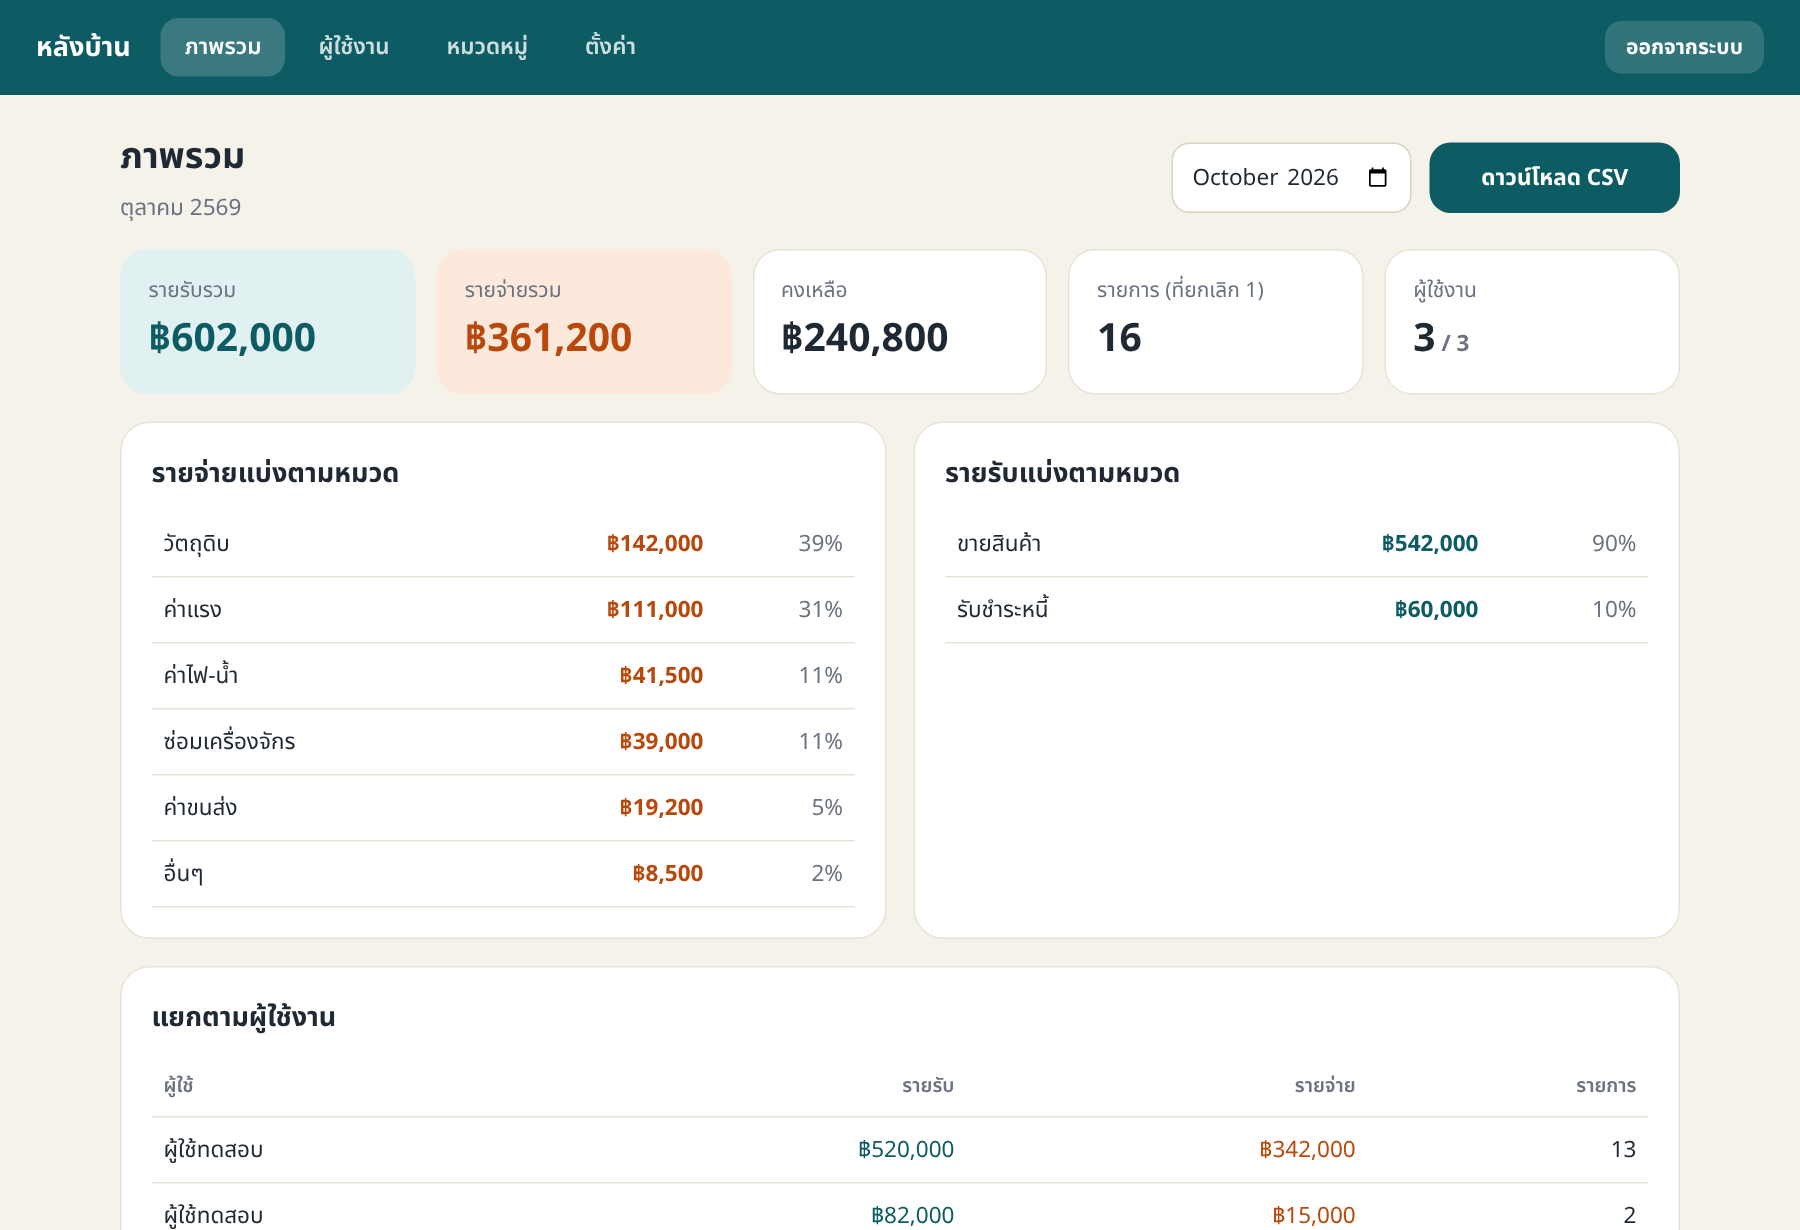
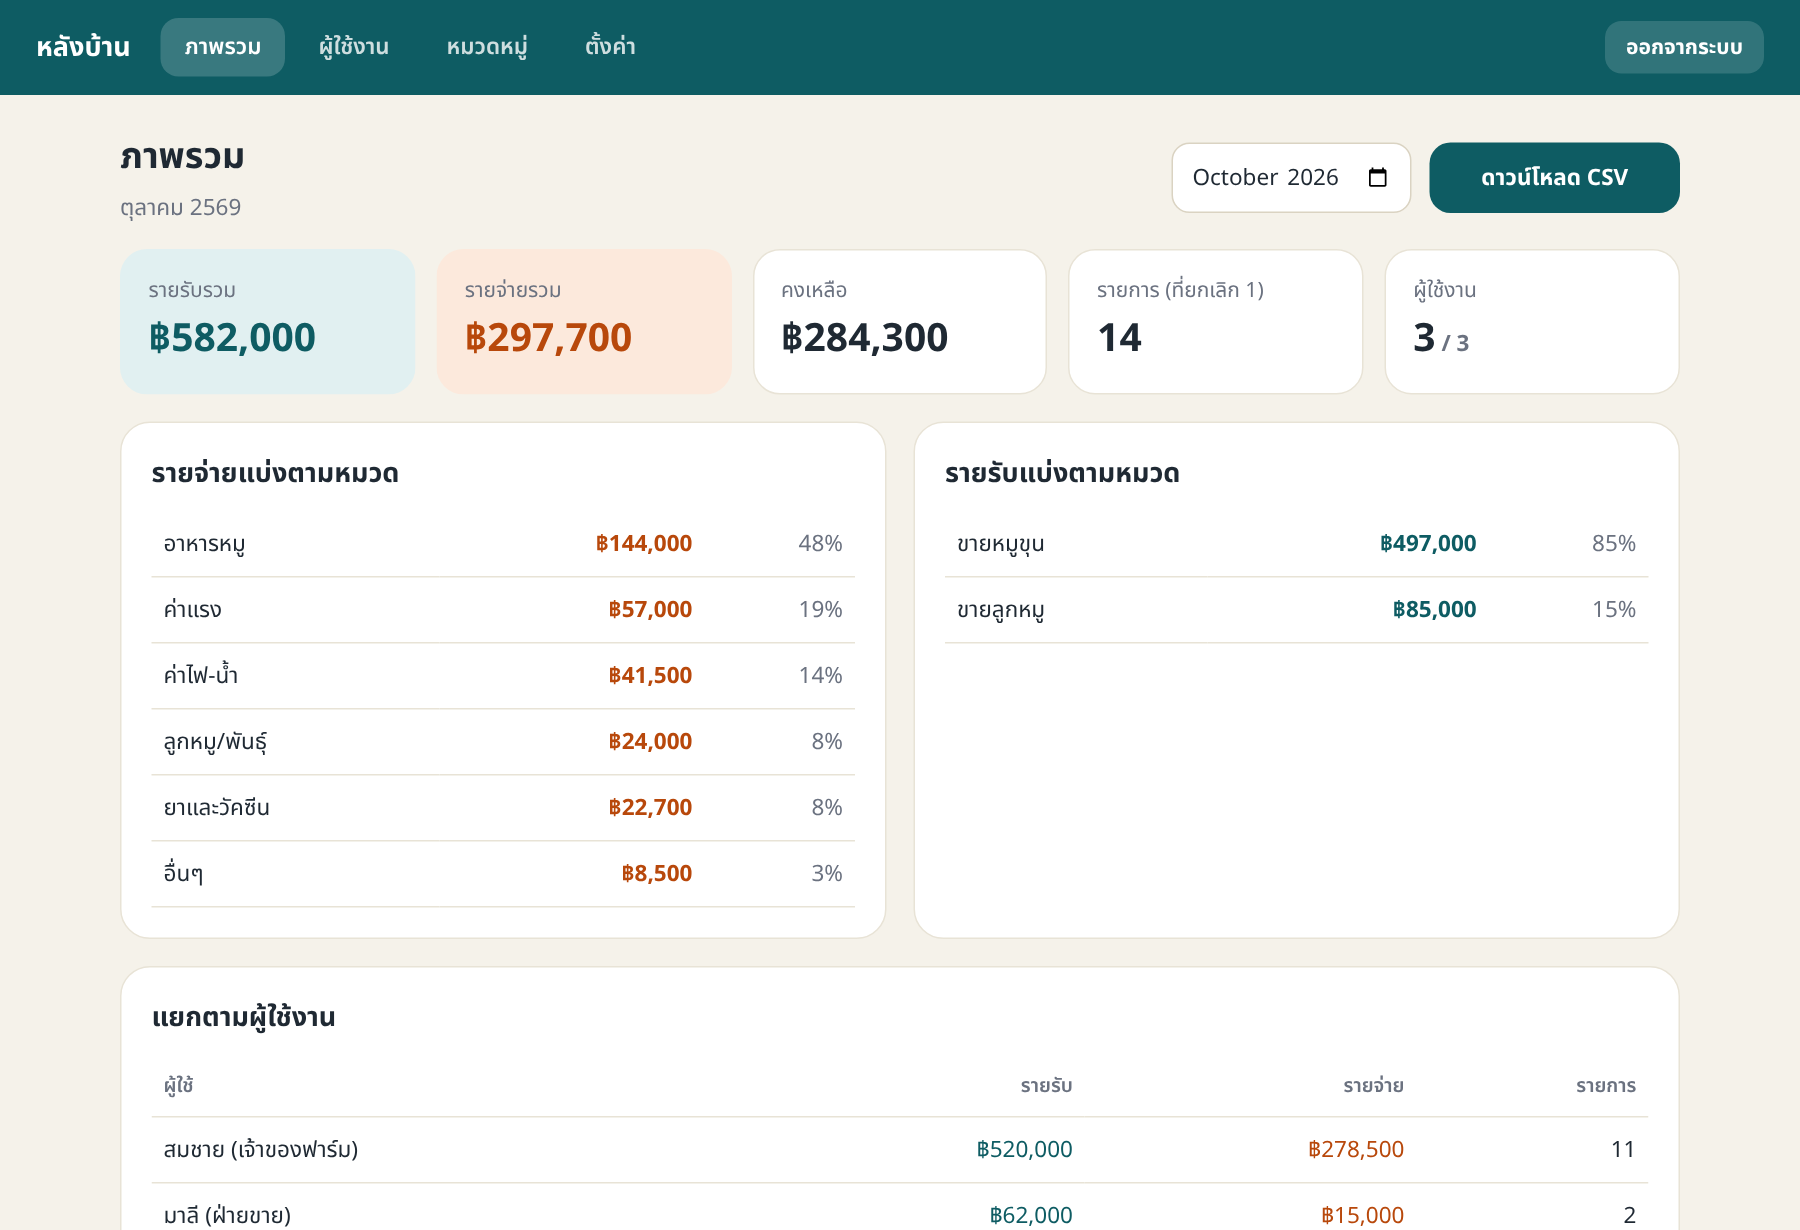
Use pig-farm sample categories/data, rename internal ids, refresh docs images
Claude-Session: https://claude.ai/code/session_01KcyeFxeqTYSPenqbhsUbU2

diff --git a/test/api.test.js b/test/api.test.js
@@ -19,12 +19,12 @@ const call = async (path, { user = 'U1', method = 'GET', body, headers = {} } = 
 
 test('บันทึกรายรับ/รายจ่าย + สรุป + คงเหลือ + ยกเลิก + แยกผู้ใช้', async () => {
   assert.equal((await call('/api/summary', { user: null })).status, 401);
-  const e = await call('/api/transactions', { method: 'POST', body: { type: 'expense', amount: '48,000', category: 'วัตถุดิบ' } });
+  const e = await call('/api/transactions', { method: 'POST', body: { type: 'expense', amount: '48,000', category: 'อาหารหมู' } });
   assert.equal(e.status, 201);
-  const i = await call('/api/transactions', { method: 'POST', body: { type: 'income', amount: 125000, category: 'ขายสินค้า', note: 'ร้านสยาม' } });
-  const bad = await call('/api/transactions', { method: 'POST', body: { type: 'income', amount: 1, category: 'วัตถุดิบ' } });
+  const i = await call('/api/transactions', { method: 'POST', body: { type: 'income', amount: 125000, category: 'ขายหมูขุน', note: 'เขียงหมูสยาม' } });
+  const bad = await call('/api/transactions', { method: 'POST', body: { type: 'income', amount: 1, category: 'อาหารหมู' } });
   assert.equal(bad.status, 400);
-  assert.equal((await call('/api/transactions', { method: 'POST', body: { type: 'expense', amount: -5, category: 'วัตถุดิบ' } })).status, 400);
+  assert.equal((await call('/api/transactions', { method: 'POST', body: { type: 'expense', amount: -5, category: 'อาหารหมู' } })).status, 400);
 
   let s = (await call('/api/summary')).data;
   assert.equal(s.income, 125000); assert.equal(s.expense, 48000); assert.equal(s.balance, 77000);
@@ -63,8 +63,8 @@ test('webhook คำสั่งข้อความ', async () => {
   })(global.fetch);
   require('../src/config').channelAccessToken = 'tok';
   const say = async (t) => { sent.length = 0; await post([{ type: 'message', replyToken: 'r', source: { userId: 'U9' }, message: { type: 'text', text: t } }]); await new Promise((r) => setTimeout(r, 80)); return sent[0]?.messages[0].text; };
-  assert.match(await say('รับ 5000 ขายสินค้า ร้านสยาม'), /บันทึกรายรับ/);
-  assert.match(await say('จ่าย 300 วัตถุดิบ เม็ดพลาสติก'), /−฿300 · วัตถุดิบ/);
+  assert.match(await say('รับ 5000 ขายหมูขุน เขียงหมูสยาม'), /บันทึกรายรับ/);
+  assert.match(await say('จ่าย 300 อาหารหมู รำละเอียด'), /−฿300 · อาหารหมู/);
   assert.match(await say('-120 ค่าอะไรก็ไม่รู้'), /อื่นๆ/);
   assert.match(await say('ยอด'), /฿4,580/);
   assert.match(await say('สรุป'), /รายจ่าย ฿420/);

diff --git a/src/routes/webhook.js b/src/routes/webhook.js
@@ -15,9 +15,9 @@ const code = (t) => t.id.slice(-4).toUpperCase();
 const sign = (t) => (t.type === 'income' ? '+' : '−') + baht(t.amount);
 
 const HELP = `📒 วิธีใช้งาน
-• รับ 5000 ขายสินค้า ร้านสยาม  → บันทึกรายรับ
-• จ่าย 300 วัตถุดิบ ซื้อเม็ดพลาสติก  → บันทึกรายจ่าย
-  (ใช้ + หรือ - แทน รับ/จ่าย ได้ เช่น -300 ค่าขนส่ง)
+• รับ 50000 ขายหมูขุน เขียงหมูสยาม  → บันทึกรายรับ
+• จ่าย 3000 อาหารหมู รำละเอียด 10 กระสอบ  → บันทึกรายจ่าย
+  (ใช้ + หรือ - แทน รับ/จ่าย ได้ เช่น -500 ค่าไฟ-น้ำ)
 • ยอด  → ดูเงินคงเหลือ
 • สรุป  → สรุปรายรับ-รายจ่ายเดือนนี้
 • ประวัติ  → ดู 5 รายการล่าสุด
@@ -67,7 +67,7 @@ async function handleText(userId, raw) {
   // ประวัติ
   if (/^(ประวัติ|รายการ|รายการล่าสุด)$/.test(msg)) {
     const list = await tx.recent(userId, 5);
-    if (!list.length) return [text('ยังไม่มีรายการ ลองพิมพ์ เช่น "จ่าย 300 วัตถุดิบ"', QUICK)];
+    if (!list.length) return [text('ยังไม่มีรายการ ลองพิมพ์ เช่น "จ่าย 3000 อาหารหมู"', QUICK)];
     return [text('🕘 รายการล่าสุด\n' + list.map((t) => `${code(t)} · ${thDateShort(t.date)} · ${t.category}\n   ${sign(t)}${t.note ? ' · ' + t.note : ''}`).join('\n'), QUICK)];
   }
 

diff --git a/public/liff/app.js b/public/liff/app.js
@@ -148,7 +148,7 @@ function pageAdd() {
     <input class="inp" id="date" type="date" max="${todayStr()}" value="${esc(f.date)}">
     <p class="sub" id="date-th" style="margin:6px 4px 0">${esc(dayLabel(f.date))} · ${esc(fullDate(f.date))}</p>
     <label class="f" for="note">หมายเหตุ (ไม่ใส่ก็ได้)</label>
-    <input class="inp" id="note" maxlength="200" placeholder="${f.type === 'income' ? 'เช่น ลูกค้าร้านสยามค้าส่ง' : 'เช่น ซื้อจากร้านประจำ'}" value="${esc(f.note)}">
+    <input class="inp" id="note" maxlength="200" placeholder="${f.type === 'income' ? 'เช่น ขายหมูขุน 20 ตัว เขียงหมูสยาม' : 'เช่น รำละเอียด 10 กระสอบ'}" value="${esc(f.note)}">
     <div id="form-err"></div>
     <button class="btn" id="save">${I.check}บันทึกรายการ</button></div>`;
   const amt = $('#amt');

diff --git a/src/config.js b/src/config.js
@@ -22,7 +22,7 @@ module.exports = {
 module.exports.defaultSettings = {
   shopName: 'พิกกี้เลี้ยงหมู',
   categories: {
-    expense: ['วัตถุดิบ', 'ค่าแรง', 'ค่าไฟ-น้ำ', 'ซ่อมเครื่องจักร', 'ค่าขนส่ง', 'อื่นๆ'],
-    income: ['ขายสินค้า', 'รับชำระหนี้', 'รายรับอื่นๆ'],
+    expense: ['อาหารหมู', 'ลูกหมู/พันธุ์', 'ยาและวัคซีน', 'ค่าแรง', 'ค่าไฟ-น้ำ', 'อื่นๆ'],
+    income: ['ขายหมูขุน', 'ขายลูกหมู', 'รายรับอื่นๆ'],
   },
 };

diff --git a/src/store.js b/src/store.js
@@ -32,7 +32,7 @@ function firestoreStore() {
   const admin = require('firebase-admin');
   const opts = {};
   // Firestore emulator (docker compose) ไม่ต้องใช้ credential
-  if (process.env.FIRESTORE_EMULATOR_HOST) opts.projectId = config.firebaseProjectId || 'demo-factory';
+  if (process.env.FIRESTORE_EMULATOR_HOST) opts.projectId = config.firebaseProjectId || 'demo-piggy';
   else if (config.serviceAccountJson) opts.credential = admin.credential.cert(JSON.parse(config.serviceAccountJson));
   else opts.credential = admin.credential.applicationDefault();
   if (config.firebaseProjectId && !opts.projectId) opts.projectId = config.firebaseProjectId;
